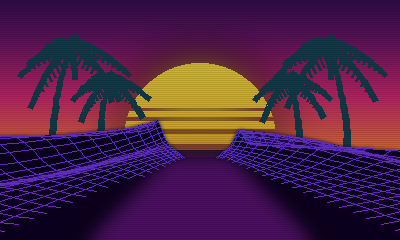
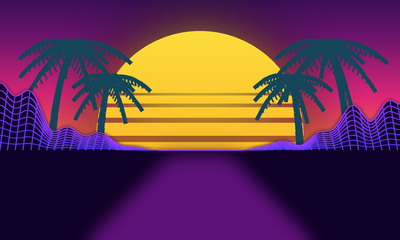
Art closer to the reference: horizon wireframe hills, bigger sun, finer palms
Background rendered at 4x and downsampled; hills are a ridge rising toward
both edges with wireframe contours; magenta floor glow; the library keeps
only its live animated floor grid.

diff --git a/tools/make_logo.py b/tools/make_logo.py
@@ -48,8 +48,8 @@ def palm(d, x0, y0, h, lean, scale, col):
         ww = int(w * (1.2 - 0.5 * i / 20))
         d.line([pts[i], pts[i + 1]], fill=col, width=max(2, ww))
     tx, ty = pts[-1]
-    for k in range(9):
-        ang = -math.pi * 0.95 + k * (math.pi * 1.9 / 8)
+    for k in range(11):
+        ang = -math.pi * 0.95 + k * (math.pi * 1.9 / 10)
         L = h * 0.6 * (0.8 + 0.3 * math.sin(k * 2.3))
         fr = []
         for j in range(13):
@@ -57,22 +57,22 @@ def palm(d, x0, y0, h, lean, scale, col):
             fx = tx + math.cos(ang) * L * t
             fy = ty - math.sin(ang) * L * t * 0.5 + (L * 0.55) * t * t   # droop
             fr.append((fx, fy))
-        d.line(fr, fill=col, width=max(2, int(scale * 6)))
+        d.line(fr, fill=col, width=max(2, int(scale * 4)))
         for j in range(2, 12):
             fx, fy = fr[j]
             ll = L * 0.28 * (1 - j / 13)
             for sgn in (-1, 1):
-                d.line([(fx, fy), (fx + sgn * ll * 0.45, fy + ll)], fill=col, width=max(2, int(scale * 3)))
+                d.line([(fx, fy), (fx + sgn * ll * 0.45, fy + ll)], fill=col, width=max(1, int(scale * 1.5)))
 
 
-def scene(W, H, horizon, show_shapes=True, show_sun=True, show_grid=True, floor=True):
+def scene(W, H, horizon, show_shapes=True, show_sun=True, show_grid=True, floor=True, sun_scale=1.0):
     # purple -> magenta -> orange sunset sky
     sky = vgrad(W, H, [(0, (60, 14, 90, 255)), (0.25 * horizon / H, (110, 20, 110, 255)),
                        (0.65 * horizon / H, (225, 40, 120, 255)), (horizon / H, (255, 120, 60, 255)),
                        (horizon / H + 0.001, (20, 4, 50, 255)), (1, (8, 0, 24, 255))])
 
     # big striped sun
-    R = int(H * 0.32)
+    R = int(H * 0.32 * sun_scale)
     cx, cy = W // 2, horizon - int(R * 0.15)
     sun = Image.new("RGBA", (W, H), (0, 0, 0, 0))
     if show_sun:
@@ -104,52 +104,56 @@ def scene(W, H, horizon, show_shapes=True, show_sun=True, show_grid=True, floor=
     else:
         floor_grid = True
 
-    # wireframe mountains on the sides + flat grid floor, drawn as a mesh
+    # wireframe hills along the horizon, rising toward both edges
     mesh = Image.new("RGBA", (W, H), (0, 0, 0, 0))
     md = ImageDraw.Draw(mesh)
-    cols, rows = 48, 22
-    lw = max(1, int(H / 200))
+    lw = max(1, int(H / 220))
 
-    def height(u, v):
+    def ridge(x):
+        u = x / W
         side = min(1.0, abs(u - 0.5) / 0.5)
-        side = max(0.0, (side - 0.35) / 0.65)
-        n = (math.sin(u * 23 + v * 3) * 0.5 + math.sin(u * 11 - v * 7) * 0.3 + math.sin(u * 37) * 0.2)
-        return side * (0.75 + 0.45 * n) * (1 - v * 0.5)
+        side = max(0.0, (side - 0.22) / 0.78) ** 1.3
+        n = 0.7 + 0.2 * math.sin(u * 31) + 0.15 * math.sin(u * 71 + 2) + 0.12 * math.sin(u * 13 + 1)
+        return side * n * H * 0.30
 
-    def proj(u, v):
-        z = 0.08 + v ** 1.6 * 1.0               # v=0 far (horizon), v=1 near
-        x = cx + (u - 0.5) * W * 3.0 * z
-        y = horizon + z * (H - horizon) * 1.05 - height(u, v) * H * 0.34 * (0.4 + z)
-        return x, y
+    xs = [i * W / 160 for i in range(161)]
+    rid = [ridge(x) for x in xs]
+    # dark fill under the ridge hides the sky
+    poly = [(x, horizon - r) for x, r in zip(xs, rid)] + [(W, horizon + 2), (0, horizon + 2)]
+    fill_layer = Image.new("RGBA", (W, H), (0, 0, 0, 0))
+    ImageDraw.Draw(fill_layer).polygon(poly, fill=(16, 0, 46, 255))
+    sky = Image.alpha_composite(sky, fill_layer)
+    # contour lines
+    K = 9
+    for k in range(1, K + 1):
+        t = k / K
+        pts = [(x, horizon - r * t) for x, r in zip(xs, rid)]
+        md.line(pts, fill=lerp((70, 60, 255, 255), (170, 60, 255, 255), t), width=lw)
+    # cross lines from the base to the ridge
+    for i in range(0, 161, 3):
+        if rid[i] > 1:
+            md.line([(xs[i] + (xs[i] - W / 2) * 0.04, horizon), (xs[i], horizon - rid[i])],
+                    fill=(110, 60, 255, 255), width=lw)
 
-    def cl(v):
-        return lerp((60, 70, 255, 255), (190, 40, 255, 255), v)
+    # flat perspective floor (title art; the library draws its own, animated)
+    if floor:
+        ImageDraw.Draw(sky).rectangle([0, horizon, W, H], fill=(14, 0, 40, 255))
+        col = (170, 60, 255, 255)
+        for i in range(-16, 17):
+            md.line([(cx + i * W * 0.03, horizon), (cx + i * W * 0.32, H)], fill=col, width=lw)
+        k = 0
+        while True:
+            y = horizon + ((k / 9.0) ** 2.2) * (H - horizon)
+            if y > H:
+                break
+            md.line([(0, y), (W, y)], fill=col, width=lw)
+            k += 1
+    else:
+        ImageDraw.Draw(sky).rectangle([0, horizon, W, H], fill=(14, 0, 40, 255))
 
-    def seg_ok(u0, v0, u1, v1):
-        return floor or height(u0, v0) > 0.03 or height(u1, v1) > 0.03
-
-    for r in range(rows + 1):
-        v = r / rows
-        for c in range(cols):
-            if seg_ok(c / cols, v, (c + 1) / cols, v):
-                md.line([proj(c / cols, v), proj((c + 1) / cols, v)], fill=cl(v), width=lw)
-    for c in range(cols + 1):
-        u = c / cols
-        for r in range(rows):
-            if seg_ok(u, r / rows, u, (r + 1) / rows):
-                md.line([proj(u, r / rows), proj(u, (r + 1) / rows)], fill=cl(0.5), width=lw)
-    # dark fill under the mesh lines so it occludes the sky below the horizon
-    floor = Image.new("RGBA", (W, H), (0, 0, 0, 0))
-    fd = ImageDraw.Draw(floor)
-    for r in range(rows * 2):
-        v0, v1 = r / (rows * 2), (r + 1) / (rows * 2)
-        for c in range(cols * 2):
-            u0, u1 = c / (cols * 2), (c + 1) / (cols * 2)
-            fd.polygon([proj(u0, v0), proj(u1, v0), proj(u1, v1), proj(u0, v1)], fill=(14, 0, 40, 255))
-    sky = Image.alpha_composite(sky, floor)
     # magenta glow down the centre of the floor
     g = Image.new("RGBA", (W, H), (0, 0, 0, 0))
-    if floor:
+    if True:
         ImageDraw.Draw(g).polygon([(cx - W * 0.08, horizon), (cx + W * 0.08, horizon), (cx + W * 0.3, H), (cx - W * 0.3, H)],
                                   fill=(200, 40, 230, 110))
     sky = Image.alpha_composite(sky, g.filter(ImageFilter.GaussianBlur(H / 25)))
@@ -261,6 +265,7 @@ print("ok")
 
 # library background: the scene without the logo, sun lower and dimmer so
 # box art stands out in front of it
-bg = scene(400, 240, 150, show_shapes=False, floor=False)   # the floor grid is drawn live
-dim = Image.new("RGBA", bg.size, (0, 0, 0, 50))
-Image.alpha_composite(bg, dim).convert("RGB").save(f"{OUT}/library_bg.png")
+# rendered 4x and scaled down so palms and wireframe stay crisp; the floor
+# grid is drawn live by the app
+bg = scene(1600, 960, 600, show_shapes=False, floor=False, sun_scale=1.35)
+bg.resize((400, 240), Image.LANCZOS).convert("RGB").save(f"{OUT}/library_bg.png")
